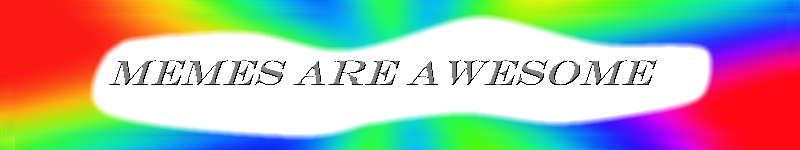
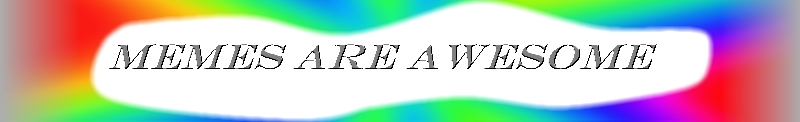
Fixed header, minor layout fixes

diff --git a/Dank site/WebContent/Layout 1.css b/Dank site/WebContent/Layout 1.css
@@ -7,31 +7,34 @@ body {
 }
 
 div.header {
-	height: 100px;
+	height: 81px;
 	width: 100%;
-	Background-color:rgba(0,0,0,0.3);
+	Background-color: #adadad;
 	position: fixed;
+	z-index: 1000;
+}
+div.space {
+	height: 172px;
+	width: 100%
 }
 div.homeImage {
-	Height: 100px;
+	Height: 81px;
 	width: 533px;
 	margin: auto;
 }
 div.login {
-	Background-color: #c8c8c8;
-	border-radius: 0 0 5px 5px;
-	border: 1px solid #555555;
+	Background-color: #333333;
+	border-radius: 5px 5px 0 0;
 	float: right;
 	text-align: center;
 	position: absolute;
-	top: 0px;
+	top: 47px;
 	right: 15px;
 }
 div.inner {
 	height: 3050px;
 	width: 1600px;
 	margin: auto;
-	<!--margin-top: 172px;-->
 }
 div.sidemenuLeft {
 	height: 3000px;
@@ -138,9 +141,10 @@ p a.1 {
 a.loginlink {
 	width: 100px;
 	margin: 3px;
+	margin-bottom: 0;
 	float: left;
 	background-color: white;
-	border-radius: 5px;
+	border-radius: 5px 5px 0 0;
 	display: block;
 	padding: 6px;
 	color: black;
@@ -150,7 +154,7 @@ a.loginlink:hover {
 	opacity: 0.8;
 }
 img.homeImage {
-	height: 100px;
+	height: 81px;
 	width: auto;
 }
 img.pranked {

diff --git a/Dank site/WebContent/Login.html b/Dank site/WebContent/Login.html
@@ -12,14 +12,15 @@
 		<div class="homeImage">
 			<a href="Home.html"><img class="homeImage" src="images\Memes are awesome.jpg" alt="home"></a>
 		</div>
+		<ul>
+			<li><a href="PepeOfTheDay.html">Pepe of the day</a></li>
+			<li><a href="Popular.html">Popular</a></li>
+			<li><a href="Trade.html">Trade</a></li>
+			<li><a href="About.html">About</a></li>
+		</ul>
 	</div>
-	<ul>
-		<li><a href="PepeOfTheDay.html">Pepe of the day</a></li>
-		<li><a href="Popular.html">Popular</a></li>
-		<li><a href="Trade.html">Trade</a></li>
-		<li><a href="About.html">About</a></li>
-	</ul>
-
+	<div class="space">
+	</div>
 
 
 	<footer>

diff --git a/Dank site/WebContent/Signup.html b/Dank site/WebContent/Signup.html
@@ -12,13 +12,15 @@
 		<div class="homeImage">
 			<a href="Home.html"><img class="homeImage" src="images\Memes are awesome.jpg" alt="home"></a>
 		</div>
+		<ul>
+			<li><a href="PepeOfTheDay.html">Pepe of the day</a></li>
+			<li><a href="Popular.html">Popular</a></li>
+			<li><a href="Trade.html">Trade</a></li>
+			<li><a href="About.html">About</a></li>
+		</ul>
 	</div>
-	<ul>
-		<li><a href="PepeOfTheDay.html">Pepe of the day</a></li>
-		<li><a href="Popular.html">Popular</a></li>
-		<li><a href="Trade.html">Trade</a></li>
-		<li><a href="About.html">About</a></li>
-	</ul>
+	<div class="space">
+	</div>
 
 
 

diff --git a/Dank site/WebContent/About.html b/Dank site/WebContent/About.html
@@ -20,15 +20,15 @@
 				<b>Sign up</b>
 			</a>
 		</div>
+		<ul>
+			<li><a href="PepeOfTheDay.html">Pepe of the day</a></li>
+			<li><a href="Popular.html">Popular</a></li>
+			<li><a href="Trade.html">Trade</a></li>
+			<li><a href="About.html">About</a></li>
+		</ul>
 	</div>
-	<ul>
-		<li><a href="PepeOfTheDay.html">Pepe of the day</a></li>
-		<li><a href="Popular.html">Popular</a></li>
-		<li><a href="Trade.html">Trade</a></li>
-		<li><a href="About.html">About</a></li>
-	</ul>
-
-
+	<div class="space">
+	</div>
 
 	<footer>
 		<div class="containerFooter1">

diff --git a/Dank site/WebContent/PepeOfTheDay.html b/Dank site/WebContent/PepeOfTheDay.html
@@ -20,15 +20,15 @@
 				<b>Sign up</b>
 			</a>
 		</div>
+		<ul>
+			<li><a href="PepeOfTheDay.html">Pepe of the day</a></li>
+			<li><a href="Popular.html">Popular</a></li>
+			<li><a href="Trade.html">Trade</a></li>
+			<li><a href="About.html">About</a></li>
+		</ul>
 	</div>
-	<ul>
-		<li><a href="PepeOfTheDay.html">Pepe of the day</a></li>
-		<li><a href="Popular.html">Popular</a></li>
-		<li><a href="Trade.html">Trade</a></li>
-		<li><a href="About.html">About</a></li>
-	</ul>
-
-
+	<div class="space">
+	</div>
 
 	<footer>
 		<div class="containerFooter1">

diff --git a/Dank site/WebContent/Popular.html b/Dank site/WebContent/Popular.html
@@ -20,13 +20,15 @@
 				<b>Sign up</b>
 			</a>
 		</div>
+		<ul>
+			<li><a href="PepeOfTheDay.html">Pepe of the day</a></li>
+			<li><a href="Popular.html">Popular</a></li>
+			<li><a href="Trade.html">Trade</a></li>
+			<li><a href="About.html">About</a></li>
+		</ul>
 	</div>
-	<ul>
-		<li><a href="PepeOfTheDay.html">Pepe of the day</a></li>
-		<li><a href="Popular.html">Popular</a></li>
-		<li><a href="Trade.html">Trade</a></li>
-		<li><a href="About.html">About</a></li>
-	</ul>
+	<div class="space">
+	</div>
 
 
 

diff --git a/Dank site/WebContent/Trade.html b/Dank site/WebContent/Trade.html
@@ -20,13 +20,15 @@
 				<b>Sign up</b>
 			</a>
 		</div>
+		<ul>
+			<li><a href="PepeOfTheDay.html">Pepe of the day</a></li>
+			<li><a href="Popular.html">Popular</a></li>
+			<li><a href="Trade.html">Trade</a></li>
+			<li><a href="About.html">About</a></li>
+		</ul>
 	</div>
-	<ul>
-		<li><a href="PepeOfTheDay.html">Pepe of the day</a></li>
-		<li><a href="Popular.html">Popular</a></li>
-		<li><a href="Trade.html">Trade</a></li>
-		<li><a href="About.html">About</a></li>
-	</ul>
+	<div class="space">
+	</div>
 
 
 

diff --git a/Dank site/WebContent/Home.html b/Dank site/WebContent/Home.html
@@ -27,6 +27,8 @@
 			<li><a href="About.html">About</a></li>
 		</ul>
 	</div>
+	<div class="space">
+	</div>
 	<div class="inner">
 		<div id="Side" class="sidemenuLeft">
 		</div>
